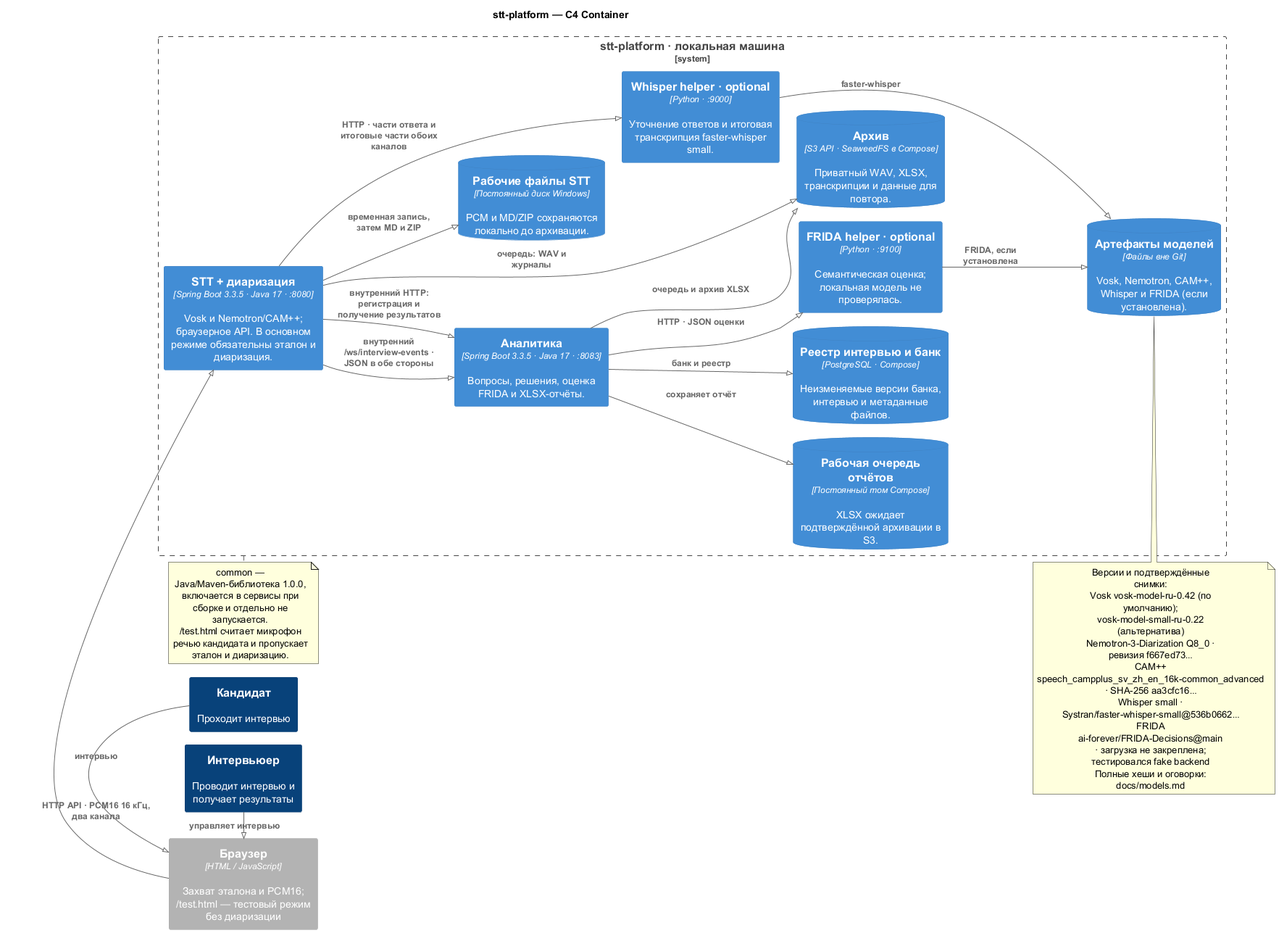
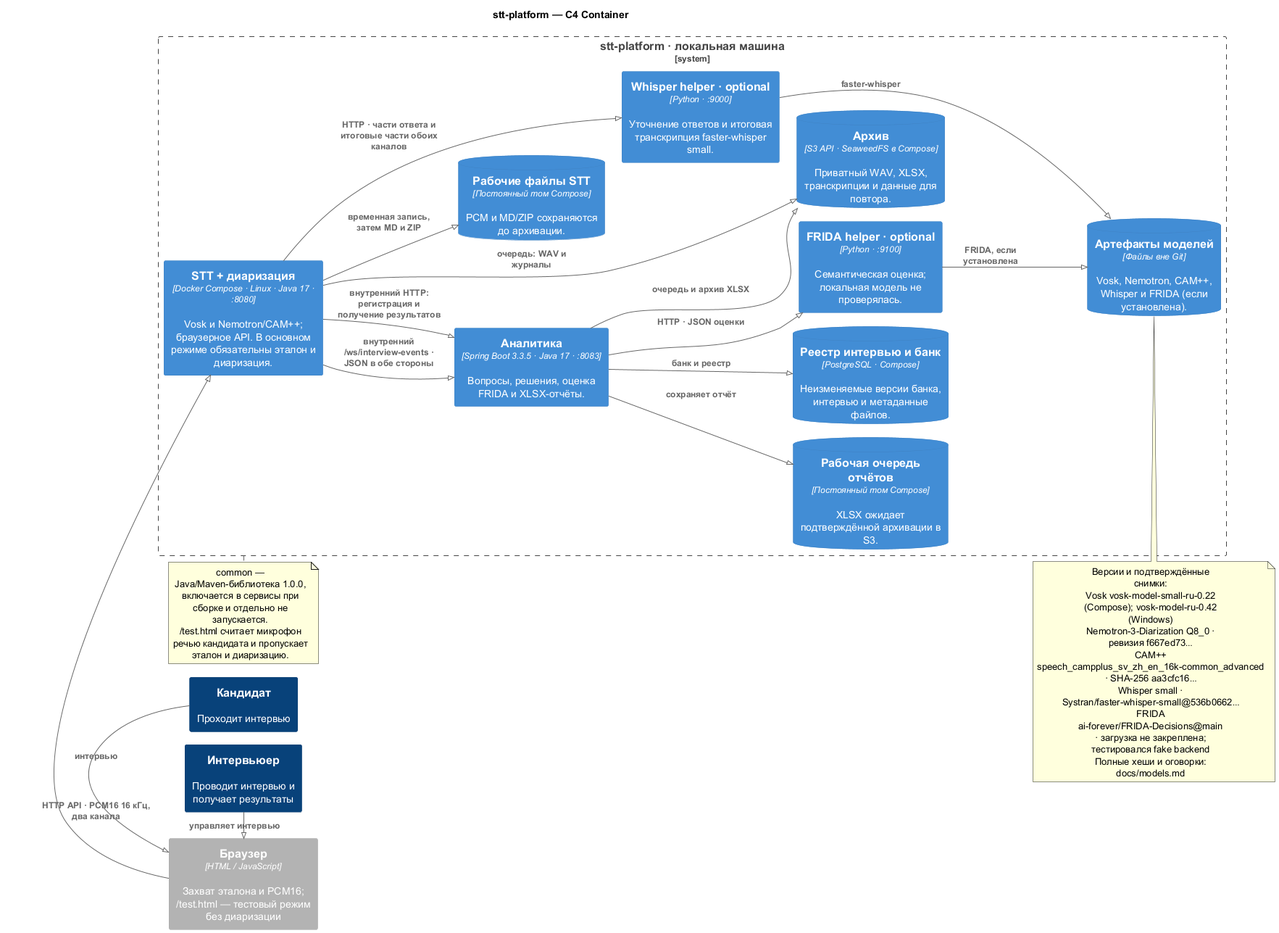
Run STT with Linux models in Docker Compose

Changed region(s): [[0.8102, 0.5905, 0.9972, 0.8702], [0.1246, 0.2797, 0.2493, 0.404], [0.3739, 0.1865, 0.4674, 0.2176]]

diff --git a/scripts/smoke-archive.py b/scripts/smoke-archive.py
@@ -4,6 +4,7 @@ import argparse
 import json
 import io
 import struct
+import subprocess
 import time
 import urllib.error
 import urllib.request
@@ -25,6 +26,7 @@ def request(path, body=None, headers=None):
 def main():
     parser = argparse.ArgumentParser()
     parser.add_argument("reference", help="неперсональный моно WAV PCM16 16 кГц с голосом кандидата")
+    parser.add_argument("--container", help="имя контейнера STT для проверки распознавания и диаризации")
     args = parser.parse_args()
     with wave.open(args.reference, "rb") as audio:
         if (audio.getnchannels(), audio.getsampwidth(), audio.getframerate()) != (1, 2, 16000):
@@ -47,14 +49,18 @@ def main():
         samples = struct.unpack("<" + "h" * (len(chunk) // 2), chunk)
         stereo = bytearray()
         for sample in samples:
-            stereo.extend(struct.pack("<hh", sample, 0))
+            stereo.extend(struct.pack("<hh", sample, ~sample))
         request("/api/audio/channels", bytes(stereo), {**headers, "X-Sequence": str(sequence)})
         time.sleep(0.64)
     request("/api/finish", b"", headers)
     deadline = time.monotonic() + 240
     while time.monotonic() < deadline:
         time.sleep(2)
-        state = request("/api/interviews/" + session)
+        try:
+            state = request("/api/interviews/" + session)
+        except (RuntimeError, urllib.error.URLError) as error:
+            print(f"Ожидание сервиса: {error}", flush=True)
+            continue
         print(json.dumps(state, ensure_ascii=False), flush=True)
         if state["audioStatus"] == "saved" and state["reportStatus"] == "ready":
             recording = request("/api/interviews/" + session + "/artifacts/audio_wav")
@@ -66,11 +72,26 @@ def main():
                 frames = archived.readframes(archived.getnframes())
                 values = struct.unpack("<" + "h" * (len(frames) // 2), frames)
                 actual_system = struct.pack("<" + "h" * (len(values) // 2), *values[::2])
-                if actual_system != speech or any(values[1::2]):
+                actual_microphone = struct.pack("<" + "h" * (len(values) // 2), *values[1::2])
+                samples_for_check = struct.unpack("<" + "h" * (len(speech) // 2), speech)
+                expected_microphone = struct.pack("<" + "h" * len(samples_for_check),
+                                                  *(~sample for sample in samples_for_check))
+                if actual_system != speech or actual_microphone != expected_microphone:
                     raise RuntimeError("Каналы WAV отличаются от отправленных")
             report = request("/api/interviews/" + session + "/artifacts/report_xlsx")
             if not report.startswith(b"PK"):
                 raise RuntimeError("Архив не вернул XLSX")
+            if args.container:
+                command = "cat /data/runs/*" + session[:8] + "*/stt-events.jsonl"
+                output = subprocess.check_output(["docker", "exec", args.container, "sh", "-c", command], text=True, encoding="utf-8")
+                events = [json.loads(line) for line in output.splitlines()]
+                if not any(event.get("text", "").strip() for event in events):
+                    raise RuntimeError("Vosk не распознал речь")
+                command = "cat /data/diarization/*" + session[:8] + "*/segments.json"
+                segments = json.loads(subprocess.check_output(
+                    ["docker", "exec", args.container, "sh", "-c", command], text=True, encoding="utf-8"))
+                if not any(segment.get("label") == "Кандидат" for segment in segments):
+                    raise RuntimeError("Нет подтверждённого сегмента кандидата")
             print("OK: session=" + session + ", WAV и XLSX доступны")
             return
     raise RuntimeError("Истекло ожидание архива: " + session)

diff --git a/stt-service/src/main/java/ru/sttplatform/gateway/config/ArchiveQueueConfig.java b/stt-service/src/main/java/ru/sttplatform/gateway/config/ArchiveQueueConfig.java
@@ -21,6 +21,7 @@ public class ArchiveQueueConfig {
      * @param secret секрет
      * @param token внутренний токен
      * @param address адрес API браузера
+     * @param containerBinding разрешает привязку внутри контейнерной сети
      * @param gateway настройки аналитики
      * @return очередь архивации
      * @throws IOException ошибка каталога */
@@ -29,8 +30,9 @@ public class ArchiveQueueConfig {
             @Value("${archive.s3.endpoint}") String endpoint, @Value("${archive.s3.bucket}") String bucket,
             @Value("${archive.s3.access-key}") String access, @Value("${archive.s3.secret-key}") String secret,
             @Value("${INTERVIEW_EVENTS_TOKEN}") String token, @Value("${server.address}") String address,
+            @Value("${archive.container-binding:false}") boolean containerBinding,
             GatewayProperties gateway) throws IOException {
-        if (!"127.0.0.1".equals(address) && !"::1".equals(address) && !"localhost".equalsIgnoreCase(address))
+        if (!containerBinding && !"127.0.0.1".equals(address) && !"::1".equals(address) && !"localhost".equalsIgnoreCase(address))
             throw new IllegalStateException("Пилотный архив разрешает только локальный API браузера");
         return new ArchiveQueue(Path.of(queuePath), URI.create(endpoint), bucket, access, secret,
                 URI.create(gateway.analyticsUrl()), token);

diff --git a/stt-service/src/test/java/ru/sttplatform/gateway/config/ArchiveQueueConfigTest.java b/stt-service/src/test/java/ru/sttplatform/gateway/config/ArchiveQueueConfigTest.java
@@ -1,0 +1,33 @@
+package ru.sttplatform.gateway.config;
+
+import org.junit.jupiter.api.Test;
+import org.junit.jupiter.api.io.TempDir;
+import ru.sttplatform.common.archive.ArchiveQueue;
+
+import java.nio.file.Path;
+
+import static org.junit.jupiter.api.Assertions.assertThrows;
+
+class ArchiveQueueConfigTest {
+    @TempDir Path directory;
+
+    @Test
+    void externalBindingRequiresExplicitContainerConfiguration() {
+        ArchiveQueueConfig config = new ArchiveQueueConfig();
+        GatewayProperties gateway = new GatewayProperties(null, null, null);
+        assertThrows(IllegalStateException.class, () -> config.archiveQueue(directory.toString(),
+                "http://localhost:8333", "interviews", "key", "secret",
+                "01234567890123456789012345678901", "0.0.0.0", false, gateway));
+    }
+
+    @Test
+    void containerBindingAllowsPersistentQueue() throws Exception {
+        ArchiveQueueConfig config = new ArchiveQueueConfig();
+        GatewayProperties gateway = new GatewayProperties(null, null, null);
+        try (ArchiveQueue queue = config.archiveQueue(directory.toString(),
+                "http://localhost:8333", "interviews", "key", "secret",
+                "01234567890123456789012345678901", "0.0.0.0", true, gateway)) {
+            org.junit.jupiter.api.Assertions.assertNotNull(queue);
+        }
+    }
+}

diff --git a/docs/archive-pilot.md b/docs/archive-pilot.md
@@ -4,39 +4,17 @@
 
 ## Первый запуск
 
-Нужны Docker Desktop с Linux-контейнерами, JDK 17, Maven, Windows-модели Vosk, Nemotron и CAM++. Пути и установка моделей описаны в [windows-setup.md](windows-setup.md). В PowerShell задайте для текущей сессии индивидуальные значения; не используйте примеры в эксплуатации и не добавляйте секреты в Git:
+Установите Docker Desktop с Linux-контейнерами и PowerShell 7. В корне проекта выполните:
 
 ```powershell
-$env:POSTGRES_PASSWORD = '<пароль PostgreSQL>'
-$env:S3_ACCESS_KEY = '<ключ S3>'
-$env:S3_SECRET_KEY = '<секрет S3>'
-$env:INTERVIEW_EVENTS_TOKEN = '<общий случайный секрет не короче 32 символов>'
-docker compose up -d --build
+pwsh -File ./scripts/start-pilot.ps1
 ```
 
-PostgreSQL не публикует порт на хост. S3 требует ключ и секрет; хранилище доступно только локально. Данные PostgreSQL, SeaweedFS и отложенные отчёты находятся в отдельных томах Docker. `docker compose down -v` удаляет эти данные и не является обычной остановкой стенда.
+Скрипт создаёт локальный `.env` со случайными секретами при первом запуске и поднимает четыре сервиса. Сохраните `.env` для повторного запуска. Первоначальная сборка загружает Linux runtime и модели. STT использует CPU, образ рассчитан на x86_64.
 
-В том же окне укажите готовые локальные пути к моделям и постоянному каталогу (он должен сохраняться после перезапуска Windows), затем запустите STT:
+Откройте http://127.0.0.1:8080/ и сохраните ссылку на интервью. PCM и очередь STT находятся в постоянном томе. PostgreSQL, SeaweedFS и очередь отчётов используют отдельные тома. Останавливайте стенд командой `docker compose down`. Команда с `-v` удаляет тома и данные.
 
-```powershell
-$env:VOSK_MODEL_PATH = 'C:\models\vosk-model-ru-0.42'
-$env:NEMOTRON_HOME = 'C:\models\nemotron'
-$env:GATEWAY_OUTPUT = 'C:\interview-archive\runs'
-$env:GATEWAY_AUDIO_SPOOL_DIR = 'C:\interview-archive\pcm'
-$env:ARCHIVE_ENABLED = 'true'
-$env:ARCHIVE_QUEUE_DIR = 'C:\interview-archive\queue'
-$env:ARCHIVE_S3_ENDPOINT = 'http://127.0.0.1:8333'
-$env:ARCHIVE_S3_BUCKET = 'interviews'
-$env:ARCHIVE_S3_ACCESS_KEY = $env:S3_ACCESS_KEY
-$env:ARCHIVE_S3_SECRET_KEY = $env:S3_SECRET_KEY
-mvn -pl stt-service -am package -DskipTests
-java -jar .\stt-service\target\stt-service-1.0.0.jar
-```
-
-Откройте `http://127.0.0.1:8080/`. Сохраните ссылку «Ссылка на интервью»: по ней показываются статусы и доступные файлы после рестарта. Для полной итоговой транскрипции запустите Whisper согласно [инструкции Windows](windows-setup.md); его отсутствие не препятствует архивированию исправной записи.
-
-Контрольный прогон с неперсональным моно WAV PCM16 16 кГц: `python scripts/smoke-archive.py путь\к\контрольной-записи.wav`. Скрипт записывает эталон, подаёт системный канал и тишину в микрофонный, ожидает архив и проверяет содержимое WAV и XLSX. Для диаризации требуется подготовленный Windows JDK из `windows-setup.md`.
-
+Контрольный прогон с неперсональным моно WAV PCM16 16 кГц — `python scripts/smoke-archive.py путь\к\контрольной-записи.wav`. Для проверки Vosk, Nemotron и CAM++ добавьте `--container <имя_контейнера_STT>` и используйте запись с разборчивой речью в первых восьми секундах. В этой конфигурации Whisper и FRIDA отключены. Вариант запуска STT на Windows описан в [инструкции Windows](windows-setup.md).
 ## Публикация банка
 
 В чистой базе при старте создаётся версия встроенного командного каталога. После проверки эталонов загрузите новую пару TSV:

diff --git a/docs/architecture.md b/docs/architecture.md
@@ -1,6 +1,6 @@
 # Архитектура
 
-Пилот с долговременным архивом добавляет PostgreSQL, SeaweedFS и локальные очереди отправки. Аналитика фиксирует версию банка и ведёт реестр; STT архивирует WAV и журналы независимо от итогового Whisper, аналитика — XLSX. Хранение и эксплуатационные ограничения описаны в [инструкции пилота](archive-pilot.md). Персональных прав и восстановления звонка на другом узле пока нет.
+Пилот запускает STT, аналитику, PostgreSQL и SeaweedFS в Docker Compose с постоянными очередями отправки. Аналитика фиксирует версию банка и ведёт реестр; STT архивирует WAV и журналы независимо от итогового Whisper, аналитика — XLSX. Хранение и эксплуатационные ограничения описаны в [инструкции пилота](archive-pilot.md). Персональных прав и восстановления звонка на другом узле пока нет.
 
 ## C4 Container
 
@@ -17,8 +17,8 @@
 | `stt-service` | 8080 | Браузерный интерфейс и API; Vosk; запись эталона; Nemotron/CAM++; фильтрация речи по роли; локальный вызов Whisper. |
 | `analytics-service` | 8083 | Банк вопросов, состояния интервью, подсказки и решения, оценивание FRIDA, XLSX-отчёты. Получает события распознавания, не аудио. |
 | `common` | — | Общие типы PCM, JSON и WebSocket-клиент. Maven-модуль библиотеки, отдельно не запускается. |
-| Whisper helper | 9000 | Локальный Python HTTP-сервер faster-whisper; опционален. Запускается рядом с `stt-service`. |
-| FRIDA helper | 9100 | Локальный Python HTTP-сервер оценки; опционален. Запускается рядом с `analytics-service`. |
+| Whisper helper | 9000 | Python HTTP-сервер faster-whisper; опционален. В текущем Compose отключён. |
+| FRIDA helper | 9100 | Python HTTP-сервер оценки; опционален. В текущем Compose отключён. |
 
 Gateway и диаризация больше не являются отдельно запускаемыми Maven-приложениями и не имеют собственных публичных API. Их код расположен внутри `stt-service`: контроллер браузера и оркестратор — в пакете `ru.sttplatform.gateway`, обработчик диаризации — в `ru.sttplatform.diarization`. STT напрямую управляет `DiarizationSession`; PCM и интервалы ролей не ходят через отдельный HTTP/WebSocket-процесс.
 
@@ -89,7 +89,7 @@ flowchart LR
 ## Границы и ограничения
 
 - Один активный диаризационный сеанс на процесс STT; модели Nemotron/CAM++ загружаются на локальной машине.
-- Основной сценарий требует совместимых нативных библиотек Windows x64, локальных моделей и доступа браузера к микрофону и системному звуку.
+- Основной сценарий требует доступа браузера к микрофону и системному звуку. Linux-контейнер содержит модели и нативные библиотеки x86_64; альтернативный запуск Windows использует локально установленные модели.
 - Оба Spring-сервиса по умолчанию привязаны к `127.0.0.1`. Канал `/ws/interview-events` дополнительно проверяет общий секрет `INTERVIEW_EVENTS_TOKEN`.
 - Whisper и FRIDA — вспомогательные процессы моделей, а не отдельные Spring Boot микросервисы. Оба можно выключить; оценка FRIDA заменяется правилами, Whisper пропускается.
 - OpenAPI не описывает WebSocket-фреймы. Их протоколы, последовательности и ошибки приведены в [справочнике событий](api/interview-events.md).

diff --git a/docs/models.md b/docs/models.md
@@ -4,7 +4,7 @@
 
 | Модель | Где используется | Настройка и подтверждённая версия | Источник и ограничения |
 |---|---|---|---|
-| Vosk | Два локальных распознавателя внутри `stt-service` | `vosk-model-ru-0.42` — модель по умолчанию; библиотека Vosk `0.3.45`. `vosk-model-small-ru-0.22` — локально проверенная компактная альтернатива. | Модель загружается скриптом `stt-service/download-model.ps1`; путь можно переопределить через `VOSK_MODEL_PATH`. |
+| Vosk | Два локальных распознавателя внутри `stt-service` | `vosk-model-ru-0.42` — модель по умолчанию; библиотека Vosk `0.3.45`. `vosk-model-small-ru-0.22` — локально проверенная компактная альтернатива. | В Compose используется компактная модель с SHA-256 ZIP 961d5ff98a17f4aa6de69864d0aa71fa5bac682301d2b5d17a3f24c5c99a46d4. Для Windows доступен скрипт загрузки. |
[2 lines of base64/hex data omitted]
 | faster-whisper | Необязательный второй проход в `stt-service` | Настроенная модель по умолчанию — `small`; локально найден снимок `Systran/faster-whisper-small@536b0662742c02347bc0e980a01041f333bce120`. | Код не задаёт revision загрузки, поэтому этот снимок описывает найденный локальный кэш, а не гарантированную версию каждого запуска. Библиотека объявлена как `faster-whisper>=1.0.3`; CPU-зависимость Silero VAD закреплена как `onnxruntime==1.23.2`. |
@@ -16,3 +16,5 @@
 - Браузерный `speechSynthesis` для озвучивания вопроса использует голос и реализацию ОС/браузера. Репозиторий не выбирает и не фиксирует TTS-модель.
 - Пример конвертации `coriollon/whisper-large-v3-turbo-russian-codeswitch` в `whisper_server.py` не является текущим default. [GPU-эксперимент на GOLOS](experiments/whisper-golos.md) не подтверждает качество модели на интервью.
 - При замене весов обновляйте таблицу и подписи диаграммы по источнику модели и SHA-256 локального артефакта. Не переносите upstream revision на локальные веса без проверки совпадения.
+
+Linux-образ использует NeMo-Speech.cpp 0.3.0 CPU x86_64 (архив SHA-256 255f12b722ab15b2a38a51cf125d56e3fa97058b528f7e895b39d6a473deb06e) и sherpa-onnx JNI 1.13.8 (SHA-256 30c93b59381113f9c20aedbbf9fc1ad399158f6bc03dddc0f8934a6e28e069ba). Веса CAM++ получены из зафиксированного снимка bitsydarel/campplus-onnx@e7bec0a1949af42884eb7911a3c01ba8cf8584b8 и совпадают по SHA-256 с Windows.

diff --git a/README.md b/README.md
@@ -11,11 +11,23 @@
 
 ## Архитектура
 
-Пилотный архив: PostgreSQL, SeaweedFS и аналитика работают в Compose, STT остаётся на Windows. Версия банка привязана к интервью; WAV и результаты отправляются через локальную очередь. [Запуск и ограничения архива](docs/archive-pilot.md).
+### Быстрый запуск на Windows
+
+Установите Git, Docker Desktop с Linux-контейнерами и PowerShell 7. В PowerShell выполните:
+
+```powershell
+git clone -b refactor/add-fisrt-containerization https://github.com/ArtemSorin/stt-platform.git
+cd stt-platform
+pwsh -File ./scripts/start-pilot.ps1
+```
+
+При первом запуске загружаются модели и создаётся локальный файл `.env` с секретами. Дождитесь сборки и откройте http://127.0.0.1:8080/. Остановка — `docker compose down`. Для повторного запуска сохраните `.env` и тома Compose. Команда `docker compose down -v` удаляет данные интервью. Whisper и FRIDA в этой конфигурации отключены.
+
+Пилотный архив: PostgreSQL, SeaweedFS, аналитика и STT работают в Compose. Версия банка привязана к интервью; WAV и результаты отправляются через постоянную очередь. [Запуск и ограничения архива](docs/archive-pilot.md).
 
 ```mermaid
 flowchart LR
-    Browser[Браузер на Windows] -->|PCM и команды| STT[STT на Windows]
+    Browser[Браузер на Windows] -->|PCM и команды| STT[STT в Compose на Linux]
     STT -->|события и реестр| Analytics[Аналитика в Compose]
     Analytics --> DB[(PostgreSQL: версии и реестр)]
     STT -->|аудио и журналы| S3[(Приватное S3)]
@@ -29,7 +41,7 @@ flowchart LR
 
 Диаграмма показывает оба запускаемых сервиса, библиотеку `common`, локальные помощники моделей и файлы моделей. [Исходник PlantUML](docs/diagrams/stt-platform-c4.puml) можно открыть и изменить на [plantuml.online](https://plantuml.online/); тот же PNG можно скачать отдельно для Miro: [C4-схема](docs/diagrams/stt-platform-c4.png). Точные идентификаторы и подтверждённые версии моделей приведены в [реестре моделей](docs/models.md).
 
-## Быстрый запуск Windows
+## Запуск из IntelliJ на Windows
 
 1. Установите JDK 17 и откройте корневой `pom.xml` как Maven-проект в IntelliJ IDEA.
 2. Скачайте модель Vosk: `powershell -ExecutionPolicy Bypass -File .\stt-service\download-model.ps1`. Если модель хранится отдельно, задайте `VOSK_MODEL_PATH`.

diff --git a/specs/003-linux-stt/tasks.md b/specs/003-linux-stt/tasks.md
@@ -1,11 +1,11 @@
 # Задачи · Linux STT
 
-- [ ] T001 Закрепить ABI Linux/amd64 для CPU в `stt-service/Dockerfile`.
-- [ ] T002 [US1] Подготовить зависимости и веса трёх моделей с проверкой хешей в `stt-service/Dockerfile`.
-- [ ] T003 [US1] Добавить четвёртый сервис, сетевые адреса и том в `compose.yaml`.
-- [ ] T004 [US1] Добавить быстрый запуск с чистого компьютера и поддержку повторного старта в `scripts` и `README.md`.
-- [ ] T005 [US2] Автоматизировать приёмку Linux с реальными моделями, пересозданием контейнера и контролем WAV/XLSX в `scripts` и CI.
-- [ ] T006 [US2] Собрать образ, выполнить контрольный прогон, проверить журнал STT и записать результаты в `docs/project-journal.md`.
-- [ ] T007 Обновить `docs/diagrams/stt-platform-c4.puml`, PNG, документацию архива и реестр моделей.
+- [x] T001 Закрепить ABI Linux/amd64 для CPU в `stt-service/Dockerfile`.
+- [x] T002 [US1] Подготовить зависимости и веса трёх моделей с проверкой хешей в `stt-service/Dockerfile`.
+- [x] T003 [US1] Добавить четвёртый сервис, сетевые адреса и том в `compose.yaml`.
+- [x] T004 [US1] Добавить быстрый запуск с чистого компьютера и поддержку повторного старта в `scripts` и `README.md`.
+- [x] T005 [US2] Автоматизировать приёмку Linux с реальными моделями и контролем WAV/XLSX, отдельно проверить пересоздание при ожидающем архиве в `scripts` и CI.
+- [x] T006 [US2] Собрать образ, выполнить контрольный прогон, проверить журнал STT и записать результаты в `docs/project-journal.md`.
+- [x] T007 Обновить `docs/diagrams/stt-platform-c4.puml`, PNG, документацию архива и реестр моделей.
 
 Сначала T001–T003, затем независимо быстрый старт и приёмка. После прогона обновляются журнал и схема.

diff --git a/docs/project-journal.md b/docs/project-journal.md
@@ -1,5 +1,14 @@
 # Журнал проекта AI-референт
 
+## STT в Linux-контейнере — 23 ноября 2026
+
+- [Спецификация и план](../specs/003-linux-stt/spec.md). Контейнер на CPU x86_64, Vosk small, NeMo-Speech.cpp 0.3.0 и sherpa-onnx JNI 1.13.8. Слои моделей проверяются по SHA-256.
+- Первая загрузка с JitPack закончилась тайм-аутом. Linux JNI теперь поступает из релиза с проверкой суммы. Другая копия CAM++ имела отличный SHA-256, поэтому выбран снимок, совпадающий с Windows.
+- Контрольный прогон фрагмента русской речи: Vosk вернул слова, Nemotron выделил сегмент, CAM++ подтвердил сходство с эталоном 0,9897. Точность и задержка на выборке интервью не оценивались.
+- WAV и XLSX получены по ID. При выключенном SeaweedFS статусы были pending, после перезапуска STT и восстановления SeaweedFS — saved и ready. Системный PCM совпал с исходным побайтно. Дополнительный прогон с непустыми обоими каналами сравнил их с исходным сигналом.
+- При отключённом S3 пересоздан контейнер STT с ожидающей очередью. После восстановления S3 оба разных канала WAV совпали побайтно с отправленными, в реестре по одному WAV и XLSX. Приёмка реального звонка с двумя участниками и сравнение Windows и Linux остаются открытыми. Whisper, FRIDA и фоновый обработчик входят в следующую работу команды.
+
+
 ## Архив интервью — 23 ноября 2026
 
 - [Спецификация архива](../specs/002-interview-archive/spec.md); [запуск и ограничения пилота](archive-pilot.md).
